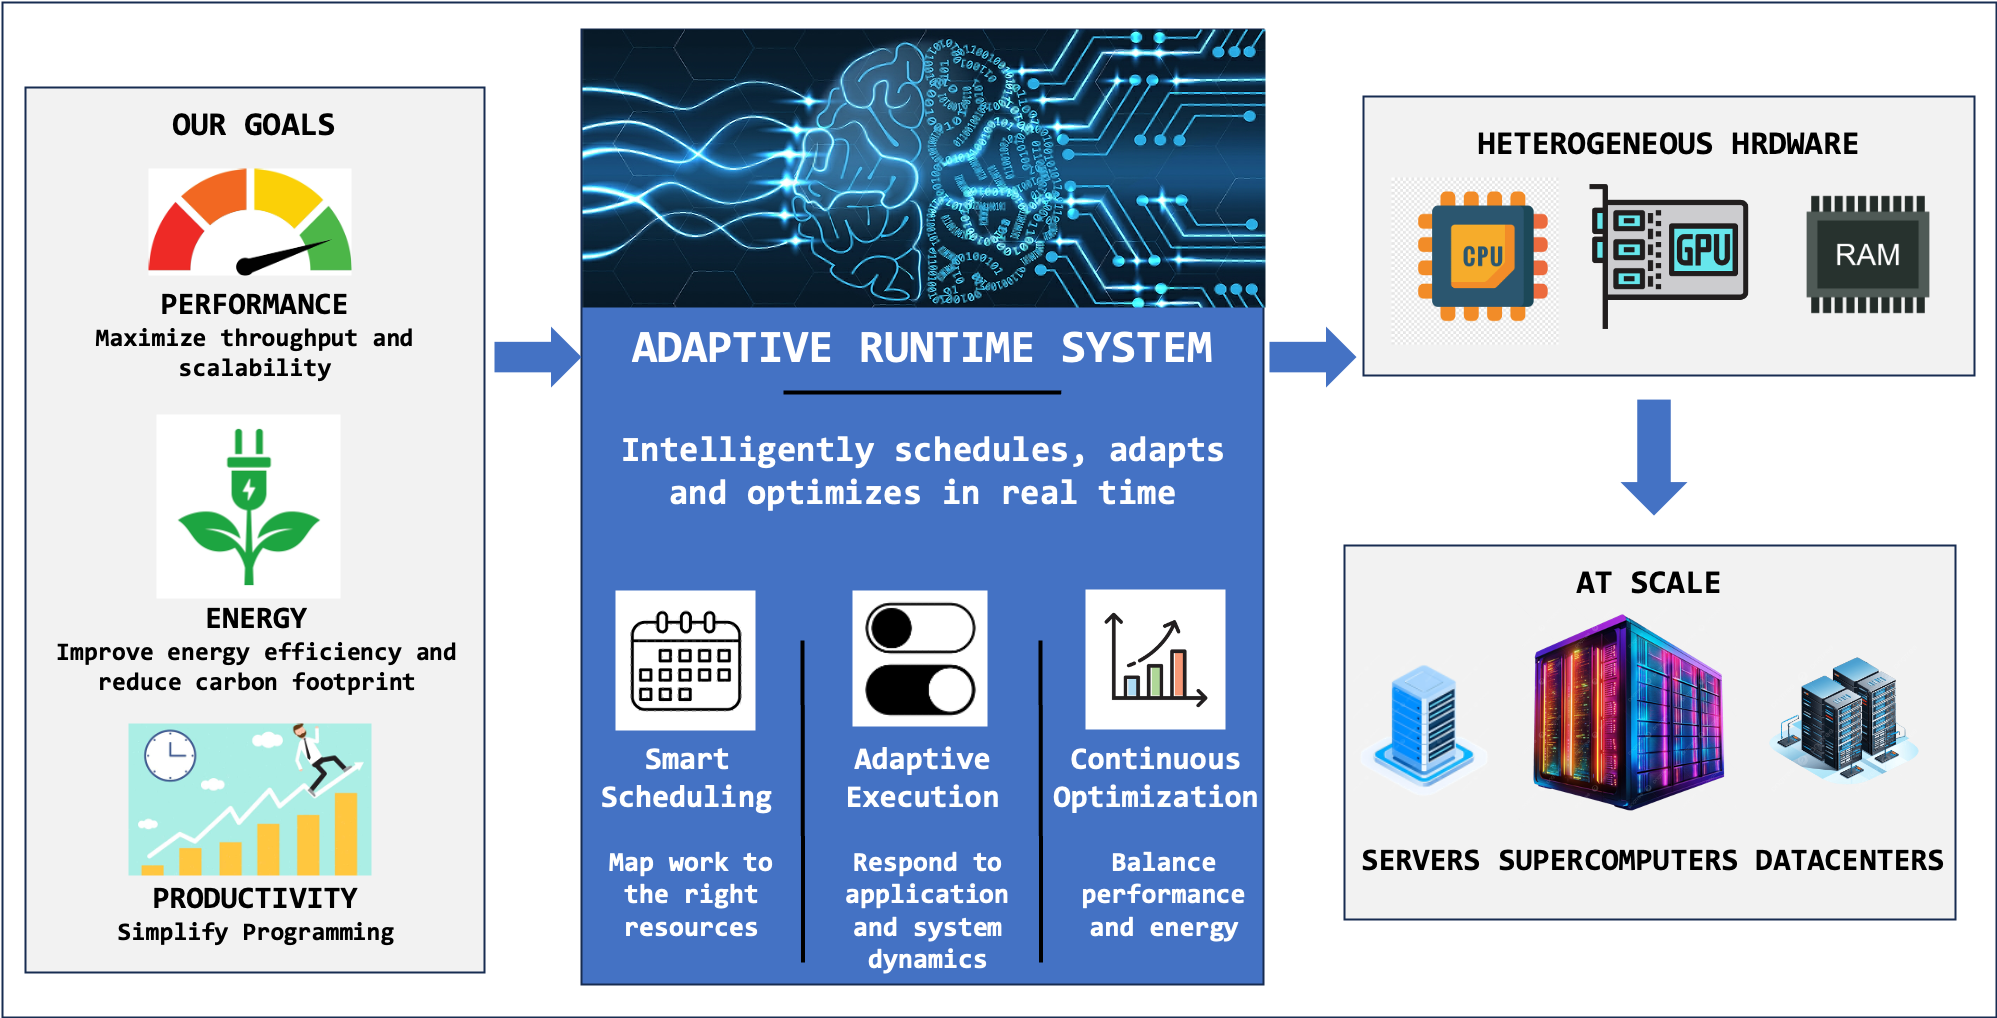
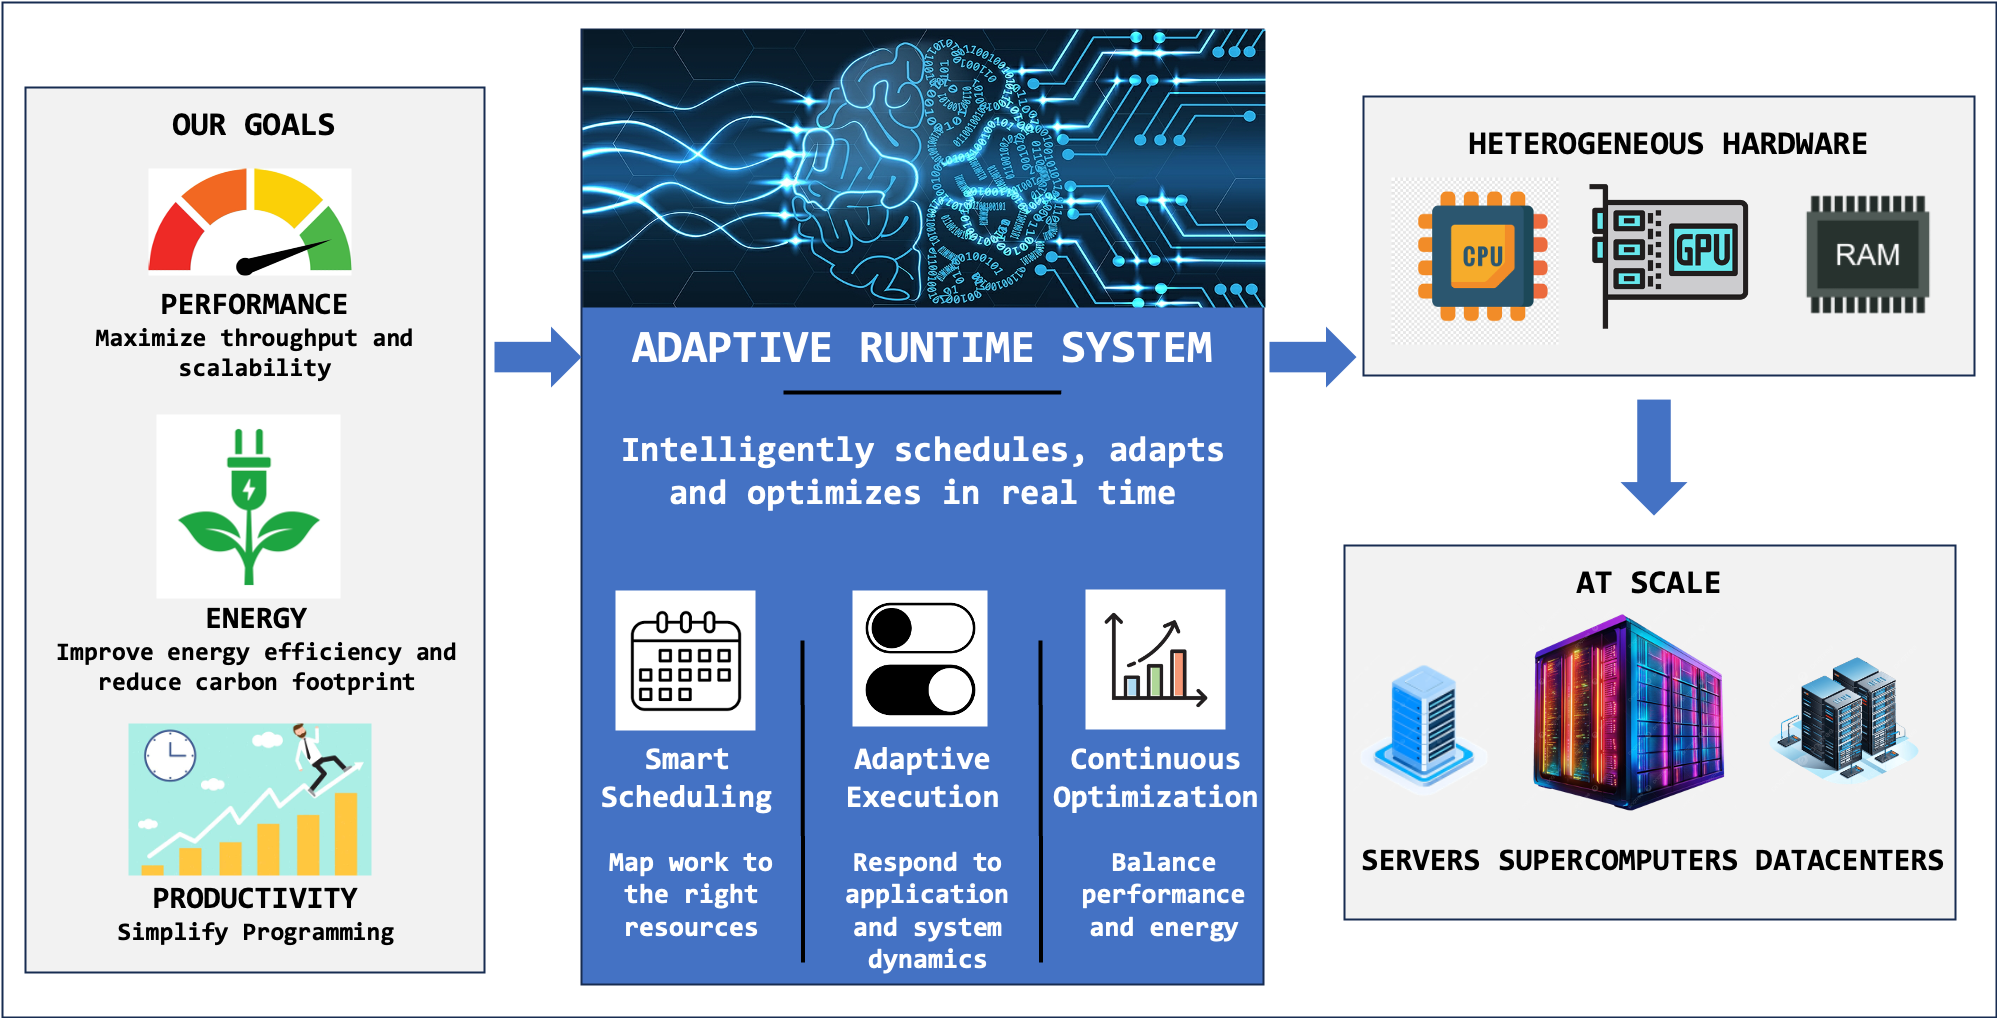
more updates

diff --git a/index.html b/index.html
@@ -365,18 +365,6 @@ p { color: var(--grey); line-height: 1.75; }
   text-align: center;
 }
 
-/* ── PUB STATS ────────────────────────────────────────────── */
-.pub-stats {
-  display: flex;
-  justify-content: center;
-  gap: 28px;
-  flex-wrap: wrap;
-  margin-top: -24px;
-  margin-bottom: 32px;
-}
-.pub-stat { text-align: center; }
-.pub-stat-num { font-size: 1.6rem; font-weight: 700; color: var(--amber); font-family: var(--mono); }
-.pub-stat-lbl { font-size: .75rem; color: var(--muted); letter-spacing: .5px; text-transform: uppercase; }
 
 /* ── ABOUT ────────────────────────────────────────────────── */
 .about-grid {
@@ -973,6 +961,29 @@ footer p {
   .sec-label, .sec-title { font-size: 1.4rem; }
   .hero-cta { flex-direction: column; }
 }
+/* ── SECTION CHIP ─────────────────────────────────────────── */
+#section-chip {
+  position: fixed;
+  bottom: 28px;
+  left: calc(var(--sidebar-w) + 20px);
+  z-index: 1500;
+  background: var(--raised);
+  border: 1px solid var(--line);
+  color: var(--grey);
+  font-family: var(--mono);
+  font-size: .75rem;
+  padding: 5px 12px;
+  border-radius: 20px;
+  letter-spacing: .5px;
+  opacity: 0;
+  pointer-events: none;
+  transition: opacity .3s;
+}
+#section-chip.visible { opacity: 1; }
+@media (max-width: 768px) {
+  #section-chip { left: 14px; bottom: 14px; }
+}
+
 /* ── SCROLL ANIMATIONS ────────────────────────────────────── */
 .anim-fade {
   opacity: 0;
@@ -1048,6 +1059,7 @@ footer p {
 
 <div id="progress-bar"></div>
 <button id="back-to-top" aria-label="Back to top">↑</button>
+<div id="section-chip"></div>
 
 <!-- ══════════════════════ MOBILE HAMBURGER ═══════════════════════════ -->
 <button class="sidebar-toggle" id="sidebar-toggle" aria-label="Open menu">
@@ -1216,13 +1228,6 @@ footer p {
   <div class="section">
     <div class="sec-label">Publications</div>
     <h2 class="sec-title">Research Papers</h2>
-
-    <div class="pub-stats">
-      <div class="pub-stat"><div class="pub-stat-num">22</div><div class="pub-stat-lbl">Total</div></div>
-      <div class="pub-stat"><div class="pub-stat-num">3</div><div class="pub-stat-lbl">Journals</div></div>
-      <div class="pub-stat"><div class="pub-stat-num">10</div><div class="pub-stat-lbl">Conferences</div></div>
-      <div class="pub-stat"><div class="pub-stat-num">9</div><div class="pub-stat-lbl">Workshops</div></div>
-    </div>
 
     <div class="pub-filters" id="pub-filters">
       <button class="pub-filter-btn active" data-filter="all">All</button>
@@ -1850,6 +1855,8 @@ var sections = Array.from(sidebarLinks).map(function(a){
   var id = a.getAttribute('href').replace('#','');
   return document.getElementById(id);
 }).filter(Boolean);
+var chip = document.getElementById('section-chip');
+var sectionLabels = { hero:'Home', news:'News', research:'Research', members:'Members', courses:'Courses', openings:'Openings', funding:'Funding', gallery:'Gallery', links:'Links', contact:'Contact' };
 function updateActiveLink(){
   var scrollY = window.scrollY + 80;
   var active = sections[0];
@@ -1858,6 +1865,12 @@ function updateActiveLink(){
     var id = a.getAttribute('href').replace('#','');
     a.classList.toggle('active', active && active.id === id);
   });
+  if(chip){
+    var id = active ? active.id : 'hero';
+    var isHero = (id === 'hero' && window.scrollY < 100);
+    chip.textContent = '§ ' + (sectionLabels[id] || id);
+    chip.classList.toggle('visible', !isHero);
+  }
 }
 window.addEventListener('scroll', updateActiveLink);
 updateActiveLink();
@@ -1867,7 +1880,7 @@ updateActiveLink();
   var targets = document.querySelectorAll(
     '.paper-card, .mem-container, .course-card, .news-item, ' +
     '.two-col > *, .funding-item, .video-grid > *, ' +
-    '.sec-label, .sec-title, .pub-stats, .about-grid > *, .gallery-grid > *'
+    '.sec-label, .sec-title, .about-grid > *, .gallery-grid > *'
   );
   targets.forEach(function(el){ el.classList.add('anim-fade'); });
   var observer = new IntersectionObserver(function(entries){